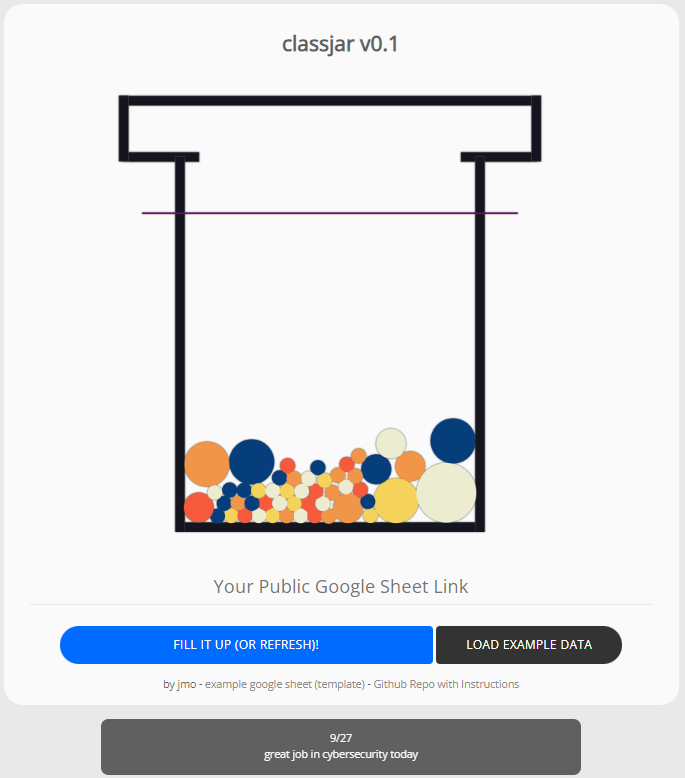
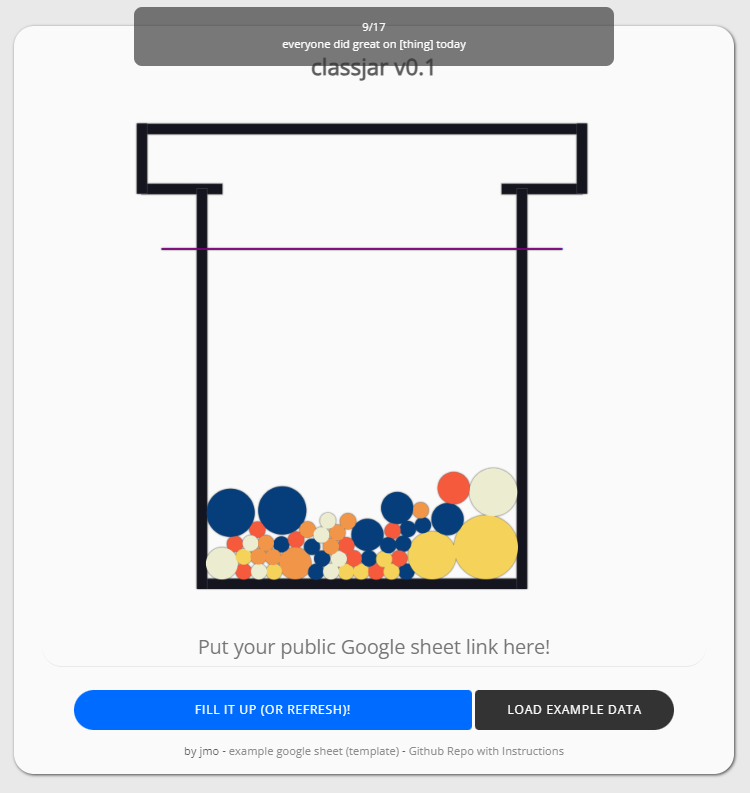
Add files via upload
small changes to ui appearance

diff --git a/styles.css b/styles.css
@@ -25,6 +25,7 @@ body {
   padding: 0 1em;
   line-height: 3rem;
   max-width: 900;
+  filter: drop-shadow(2px 2px 2px #444);
 }
 
 h1, h2, h3, h4, h5, h6 {
@@ -45,6 +46,7 @@ form {
   background: #fafafa;
   border: none;
   border-bottom: 2px solid #e9e9e9;
+  border-radius: 25px;
   color: #666;
   font-family: 'Open Sans', sans-serif;
   font-size: 1.75em;
